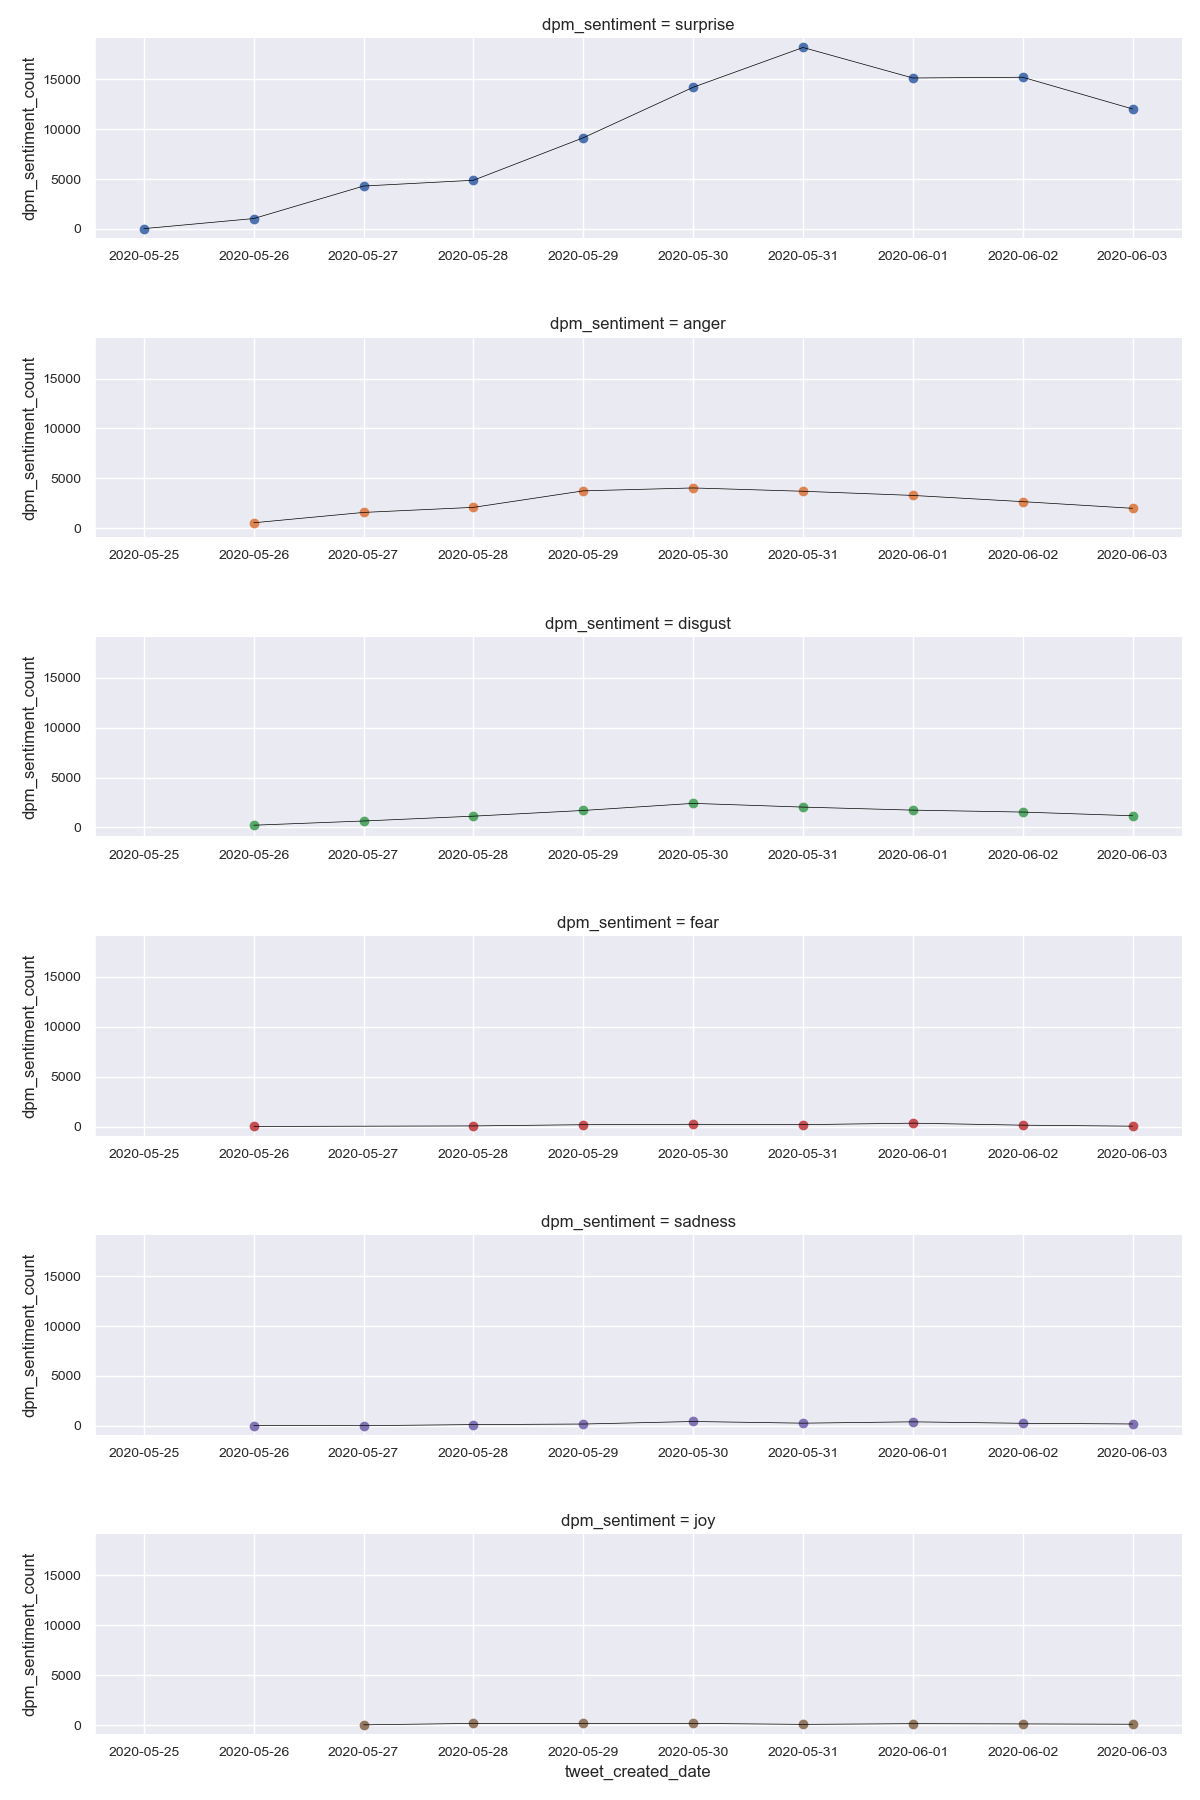
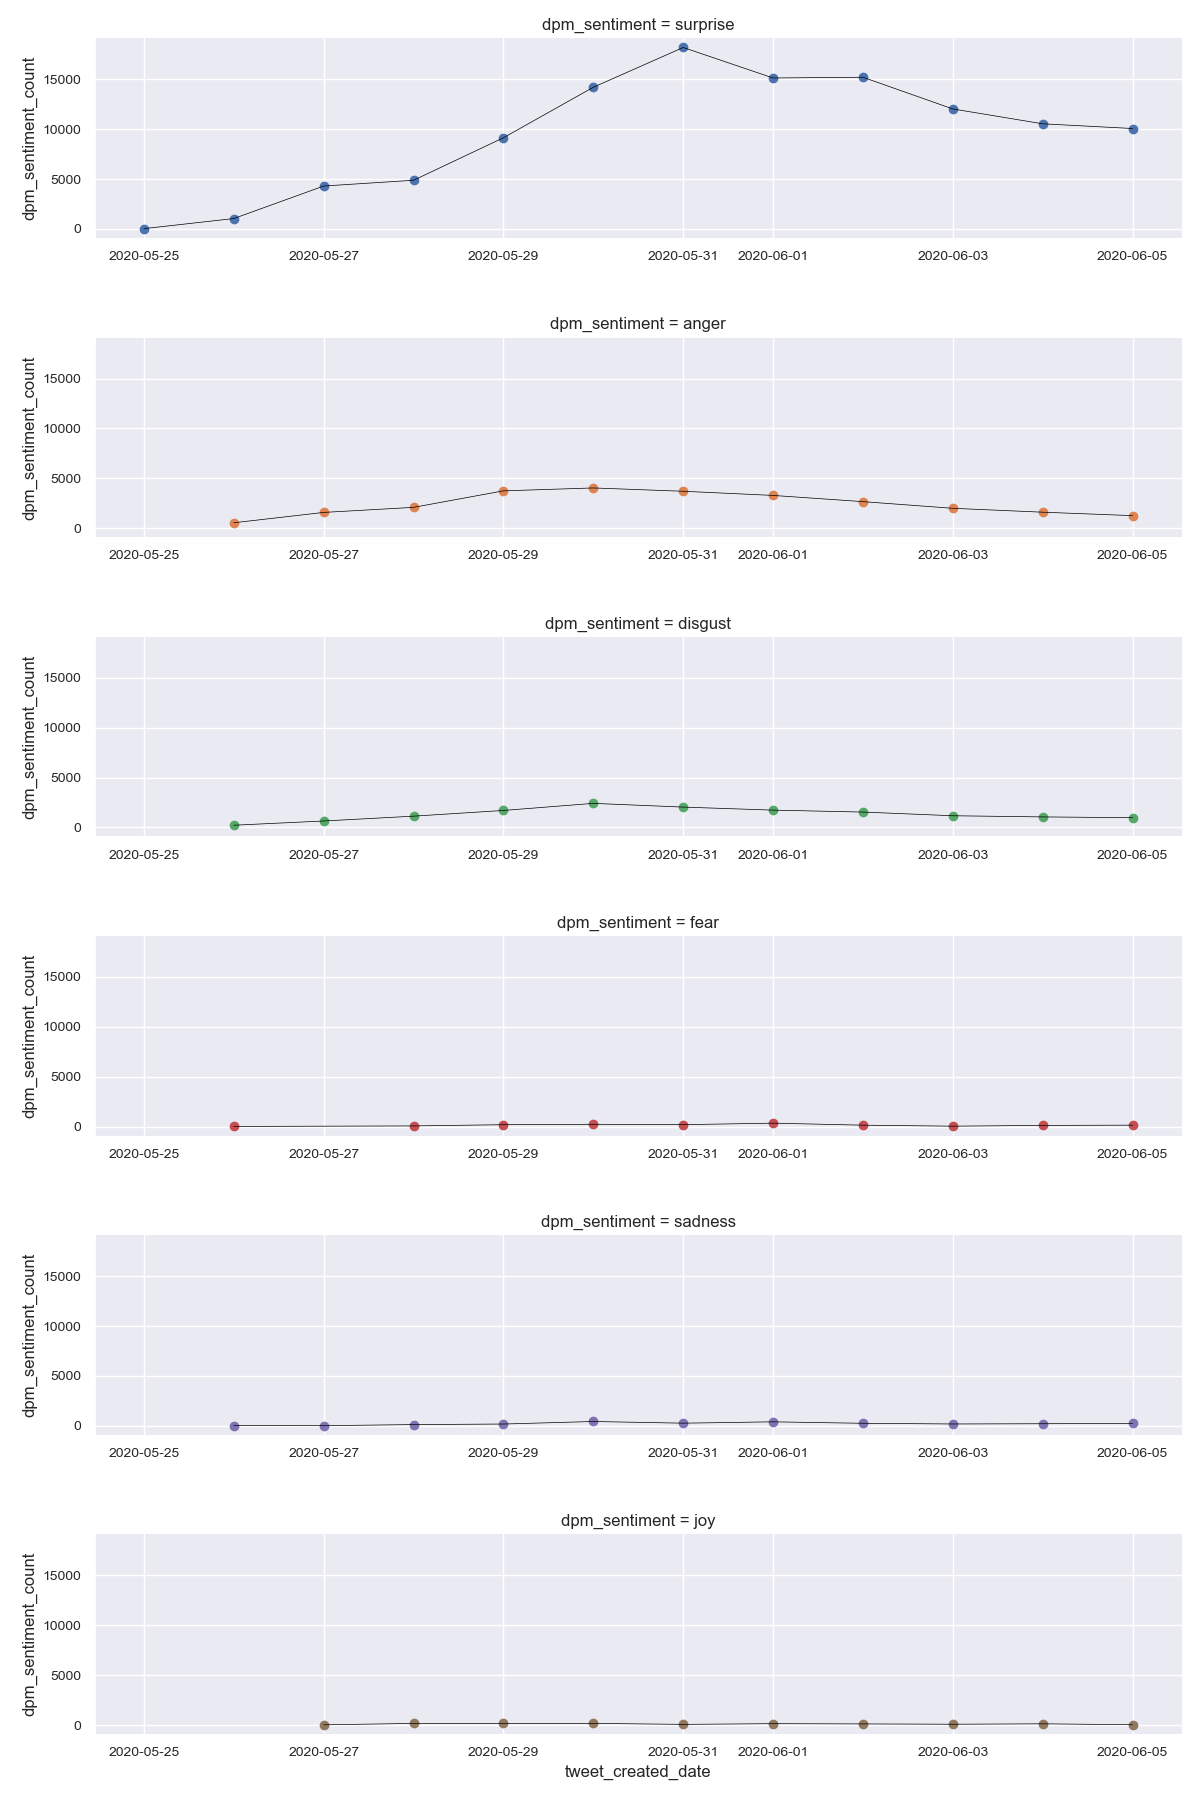
update img

diff --git a/Controller/Visualization/LinePlotViz.py b/Controller/Visualization/LinePlotViz.py
@@ -211,16 +211,16 @@ def plot_sentiment(df, lexicon_name, dir_path, is_standard, min_intensity, start
 
     # LINE PLOT BY DAY
     plot_sentiment_day_key(df, lexicon_name, dir_path, is_standard, "score")
-    #plot_sentiment_day_key(df, lexicon_name, dir_path, is_standard, "count")
+    plot_sentiment_day_key(df, lexicon_name, dir_path, is_standard, "count")
     plot_sentiment_day_key_with_intensity(df, lexicon_name, dir_path, is_standard, "score", min_intensity)
-    #plot_sentiment_day_key_with_intensity(df, lexicon_name, dir_path, is_standard, "count", min_intensity)
+    plot_sentiment_day_key_with_intensity(df, lexicon_name, dir_path, is_standard, "count", min_intensity)
     plot_sentiment_day_key_with_period(df, lexicon_name, dir_path, is_standard, "score", start_date, end_date)
-    #plot_sentiment_day_key_with_period(df, lexicon_name, dir_path, is_standard, "count", start_date, end_date)
+    plot_sentiment_day_key_with_period(df, lexicon_name, dir_path, is_standard, "count", start_date, end_date)
 
     # LINE PLOT BY HOUR
-    #plot_sentiment_hour_key(df, lexicon_name, dir_path, is_standard, "score")
-    #plot_sentiment_hour_key(df, lexicon_name, dir_path, is_standard, "count")
-    #plot_sentiment_hour_key_with_intensity(df, lexicon_name, dir_path, is_standard, "score", min_intensity)
-    #plot_sentiment_hour_key_with_intensity(df, lexicon_name, dir_path, is_standard, "count", min_intensity)
+    plot_sentiment_hour_key(df, lexicon_name, dir_path, is_standard, "score")
+    plot_sentiment_hour_key(df, lexicon_name, dir_path, is_standard, "count")
+    plot_sentiment_hour_key_with_intensity(df, lexicon_name, dir_path, is_standard, "score", min_intensity)
+    plot_sentiment_hour_key_with_intensity(df, lexicon_name, dir_path, is_standard, "count", min_intensity)
     plot_sentiment_hour_key_with_period(df, lexicon_name, dir_path, is_standard, "score", start_date, end_date)
-    #plot_sentiment_hour_key_with_period(df, lexicon_name, dir_path, is_standard, "count", start_date, end_date)
+    plot_sentiment_hour_key_with_period(df, lexicon_name, dir_path, is_standard, "count", start_date, end_date)

diff --git a/Controller/Visualization/KdePlotViz.py b/Controller/Visualization/KdePlotViz.py
@@ -82,7 +82,7 @@ def plot_sentiment_day_key_with_period(df, lexicon_name, dir_path, is_standard, 
     x_attr_title = "Tweet Date"
     title = "Total ({}) Sentiment {} Group by Day ({} to {})".format(lexicon_name, selected_key, n_start_date, n_end_date)
     legend_title = "{} Sentiment".format(lexicon_name.upper())
-    output_file = plot_folder_path(dir_path, is_standard, lexicon_name) + "{}_lineplot_by_day_by_period".format(selected_key)
+    output_file = plot_folder_path(dir_path, is_standard, lexicon_name) + "{}_{}_by_day_by_period".format(selected_key, plot_name)
 
     # GENERATE DATAFRAME
     start_date = datetime.strptime(n_start_date, "%Y-%m-%d").date()
@@ -92,7 +92,7 @@ def plot_sentiment_day_key_with_period(df, lexicon_name, dir_path, is_standard, 
     grouper = df[["tweet_created_date", senti_name, senti_key]].groupby(["tweet_created_date", senti_name])
     f_df = grouper[senti_key].sum().to_frame(name=senti_key).reset_index()
     f_df['tweet_created_date'] = pd.to_datetime(f_df['tweet_created_date'], format='%Y-%m-%d')
-    f_df['nrc_sentiment'] = f_df['nrc_sentiment'].astype(str)
+    f_df[senti_name] = f_df[senti_name].astype(str)
 
     # CREATE LINE PLOT
     plot(senti_key, "tweet_created_date", senti_name, f_df, y_attr_title, x_attr_title, title, legend_title, output_file)

diff --git a/dataset/blm_minesota/3_analysis.py b/dataset/blm_minesota/3_analysis.py
@@ -15,8 +15,8 @@ key_focus = "score"
 mood_set = "individual"
 master_dataset_file = dir_path+"dataset.csv"
 sentiment_dataset_file = dir_path+"04-post-sentiment-True-dataset.csv"
-focus_from_date = "2020-05-25"
-focus_to_date = "2020-06-02"
+focus_from_date = "2020-05-23"
+focus_to_date = "2020-06-05"
 isStandard = True
 
 # LOAD AND COMBINE DATASET FILE
@@ -35,6 +35,7 @@ df['tweet_created_hour'] = df['tweet_created_dt'].apply(lambda x: DateHelper.get
 l_sentiment_date = "tweet_created_date"
 
 # LINE PLOT
-LinePlotViz.plot_sentiment(df, "nrc", dir_path, isStandard, min_intensity, focus_from_date, focus_to_date)
+#LinePlotViz.plot_sentiment(df, "nrc", dir_path, isStandard, min_intensity, focus_from_date, focus_to_date)
 #LinePlotViz.plot_sentiment(df, "dpm", dir_path, isStandard, min_intensity, focus_from_date, focus_to_date)
-KdePlotViz.plot_sentiment(df, "nrc", dir_path, isStandard, min_intensity, focus_from_date, focus_to_date)
+#KdePlotViz.plot_sentiment(df, "nrc", dir_path, isStandard, min_intensity, focus_from_date, focus_to_date)
+#KdePlotViz.plot_sentiment(df, "dpm", dir_path, isStandard, min_intensity, focus_from_date, focus_to_date)
